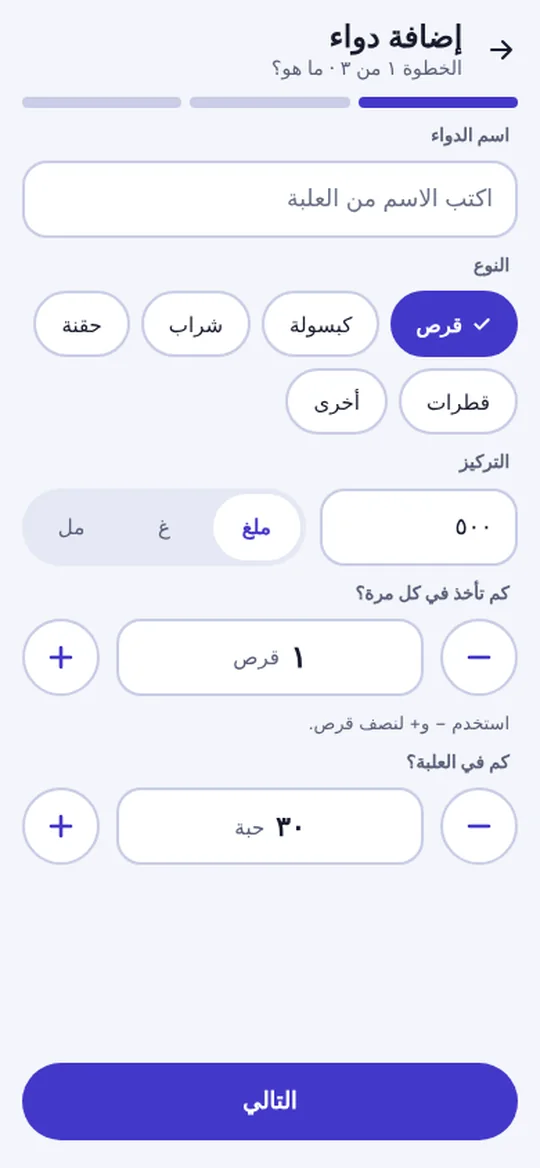
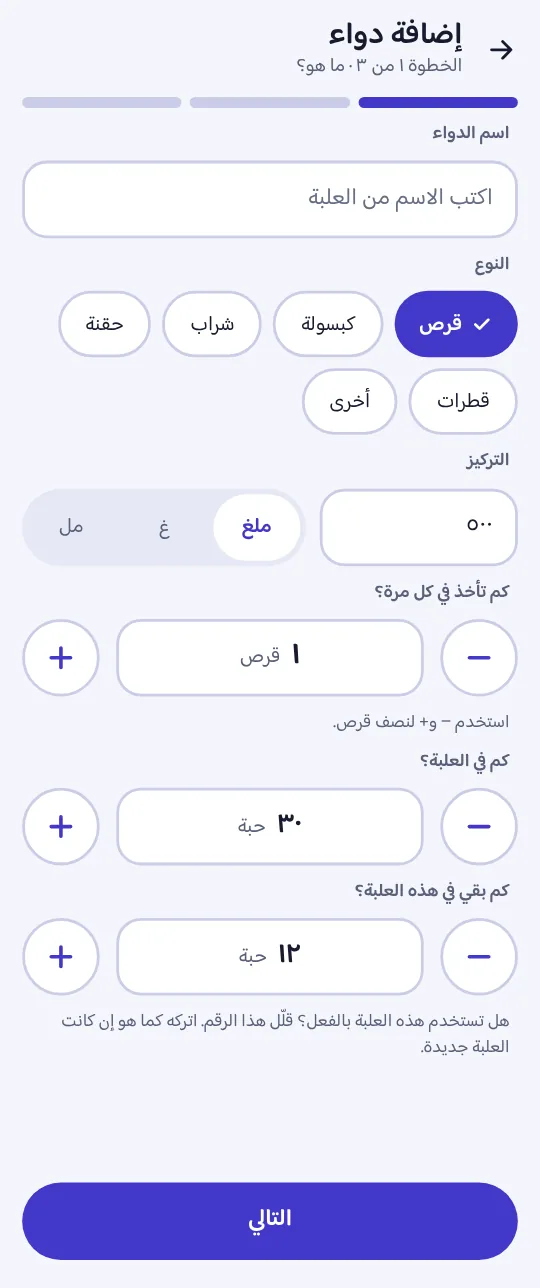
M38: Add medicine and large-text screenshots from the canvas; image sizes read from the files
Claude-Session: https://claude.ai/code/session_01VdfvPmvUfxt6E1zBJ3j5Yo

diff --git a/site/index.html b/site/index.html
@@ -45,11 +45,11 @@
 </div></section>
 <section class="feature evening"><div class="wrap">
 <div class="text"><h2 class="ar" lang="ar">إضافة دواء بخطوات بسيطة</h2><h2 class="en" lang="en">Add a medicine in a few simple steps</h2><p class="ar" lang="ar">اسم الدواء ونوعه وجرعته، ثم المواعيد: مرة أو عدة مرات في اليوم، أو كل عدد من الساعات، أو عند الحاجة فقط. وإن كانت العلبة قيد الاستعمال، قل للتطبيق كم بقي فيها.</p><p class="en" lang="en">The name, type and dose, then the times: once or several times a day, every few hours, or only when needed. If the box is already in use, tell the app how many are left.</p></div>
-<div class="phone"><img class="ar" src="img/ar/add-med-1.webp" width="540" height="1168" alt="الخطوة الأولى من إضافة دواء" loading="lazy"><img class="en" src="img/en/add-med-1.webp" width="540" height="1168" alt="Step one of adding a medicine" loading="lazy"></div>
+<div class="phone"><img class="ar" src="img/ar/add-med-1.webp" width="540" height="1288" alt="الخطوة الأولى من إضافة دواء" loading="lazy"><img class="en" src="img/en/add-med-1.webp" width="540" height="1288" alt="Step one of adding a medicine" loading="lazy"></div>
 </div></section>
 <section class="feature noon flip"><div class="wrap">
 <div class="text"><h2 class="ar" lang="ar">مقروء لكل العيون</h2><h2 class="en" lang="en">Readable for every eye</h2><p class="ar" lang="ar">كبّر الخط حتى ٢٠٠٪ فيتّسع كل شيء ويلتفّ النص بدل أن يُقطع. أزرار كبيرة وسهلة اللمس، وألوان واضحة، ووضع داكن لليل.</p><p class="en" lang="en">Enlarge the text up to 200% and everything makes room: text wraps instead of being cut off. Large, easy-to-tap buttons, clear colours, and a dark theme for the evening.</p></div>
-<div class="pair"><div class="phone"><img class="ar" src="img/ar/large-today.webp" width="540" height="1168" alt="شاشة اليوم بخط كبير جداً" loading="lazy"><img class="en" src="img/en/large-today.webp" width="540" height="1168" alt="The Today screen with very large text" loading="lazy"></div><div class="phone"><img class="ar" src="img/ar/today-dark.webp" width="540" height="1168" alt="شاشة اليوم في الوضع الداكن" loading="lazy"><img class="en" src="img/en/today-dark.webp" width="540" height="1168" alt="The Today screen in the dark theme" loading="lazy"></div></div>
+<div class="pair"><div class="phone"><img class="ar" src="img/ar/large-today.webp" width="540" height="1952" alt="شاشة اليوم بخط كبير جداً" loading="lazy"><img class="en" src="img/en/large-today.webp" width="540" height="1925" alt="The Today screen with very large text" loading="lazy"></div><div class="phone"><img class="ar" src="img/ar/today-dark.webp" width="540" height="1168" alt="شاشة اليوم في الوضع الداكن" loading="lazy"><img class="en" src="img/en/today-dark.webp" width="540" height="1168" alt="The Today screen in the dark theme" loading="lazy"></div></div>
 </div></section>
 <section class="feature morning"><div class="wrap">
 <div class="text"><h2 class="ar" lang="ar">ينبّهك قبل أن ينتهي الدواء</h2><h2 class="en" lang="en">Warns you before a medicine runs out</h2><p class="ar" lang="ar">يتابع التطبيق ما بقي في العلبة وينبّهك قبل نفاده بأيام، لتشتري في الوقت المناسب ولا تنقطع عن دوائك.</p><p class="en" lang="en">The app keeps track of what is left in the box and warns you days before it runs out, so you can buy more in time.</p></div>

diff --git a/tools/build_site.py b/tools/build_site.py
@@ -52,10 +52,19 @@ def bi(ar, en, tag="span", cls=""):
     c = (" " + cls) if cls else ""
     return f'<{tag} class="ar{c}" lang="ar">{ar}</{tag}><{tag} class="en{c}" lang="en">{en}</{tag}>'
 
+def _size(lang, name):
+    """The real pixel size of a screen image, so tall screens (large text, Add medicine) are never squeezed."""
+    try:
+        from PIL import Image
+        return Image.open(f"site/img/{lang}/{name}.webp").size
+    except Exception:
+        return (540, 1168)
+
 def img(name, ar_alt, en_alt, eager=False):
     lz = "" if eager else ' loading="lazy"'
-    return (f'<img class="ar" src="img/ar/{name}.webp" width="540" height="1168" alt="{E(ar_alt)}"{lz}>'
-            f'<img class="en" src="img/en/{name}.webp" width="540" height="1168" alt="{E(en_alt)}"{lz}>')
+    (aw, ah), (ew, eh) = _size("ar", name), _size("en", name)
+    return (f'<img class="ar" src="img/ar/{name}.webp" width="{aw}" height="{ah}" alt="{E(ar_alt)}"{lz}>'
+            f'<img class="en" src="img/en/{name}.webp" width="{ew}" height="{eh}" alt="{E(en_alt)}"{lz}>')
 
 def phone(name, ar_alt, en_alt, eager=False):
     return f'<div class="phone">{img(name, ar_alt, en_alt, eager)}</div>'
